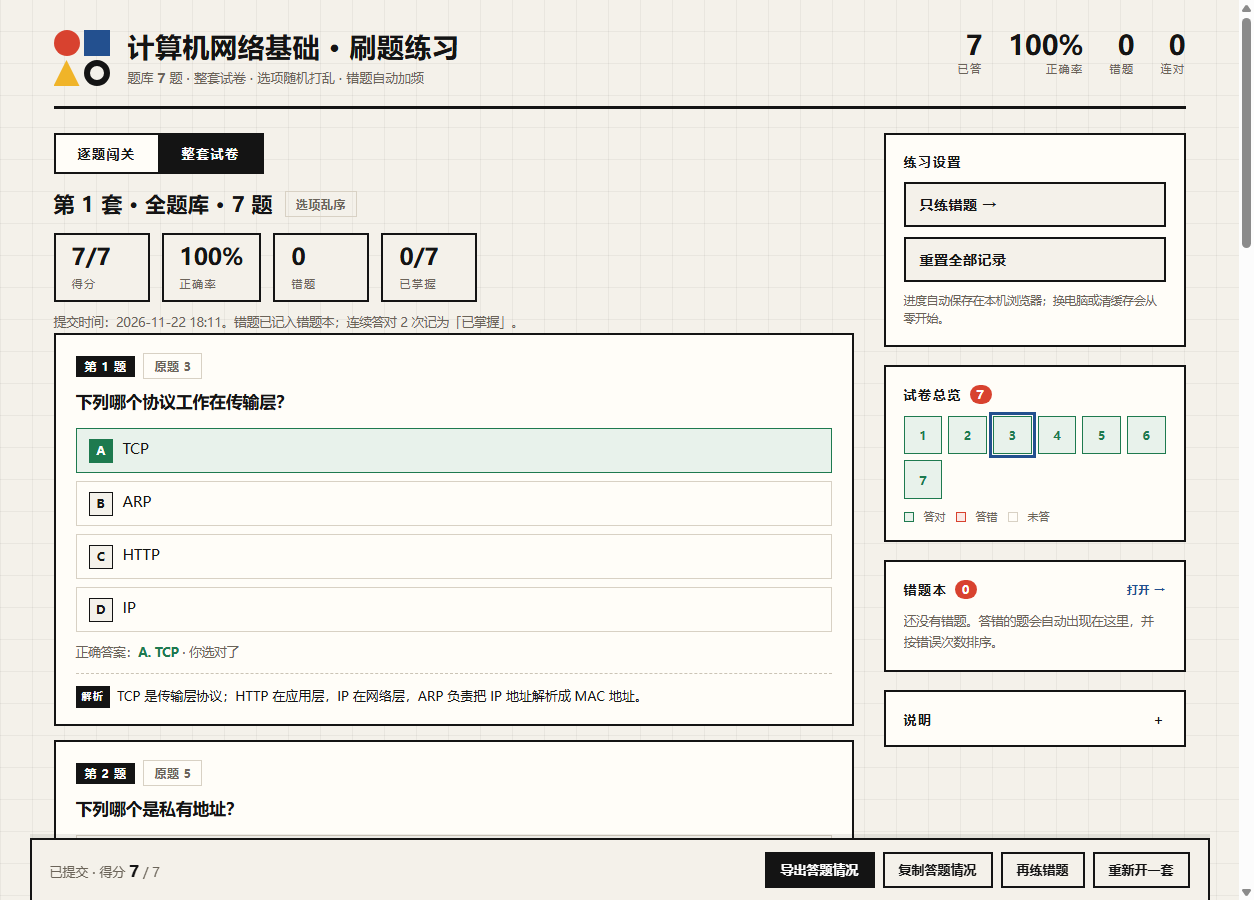
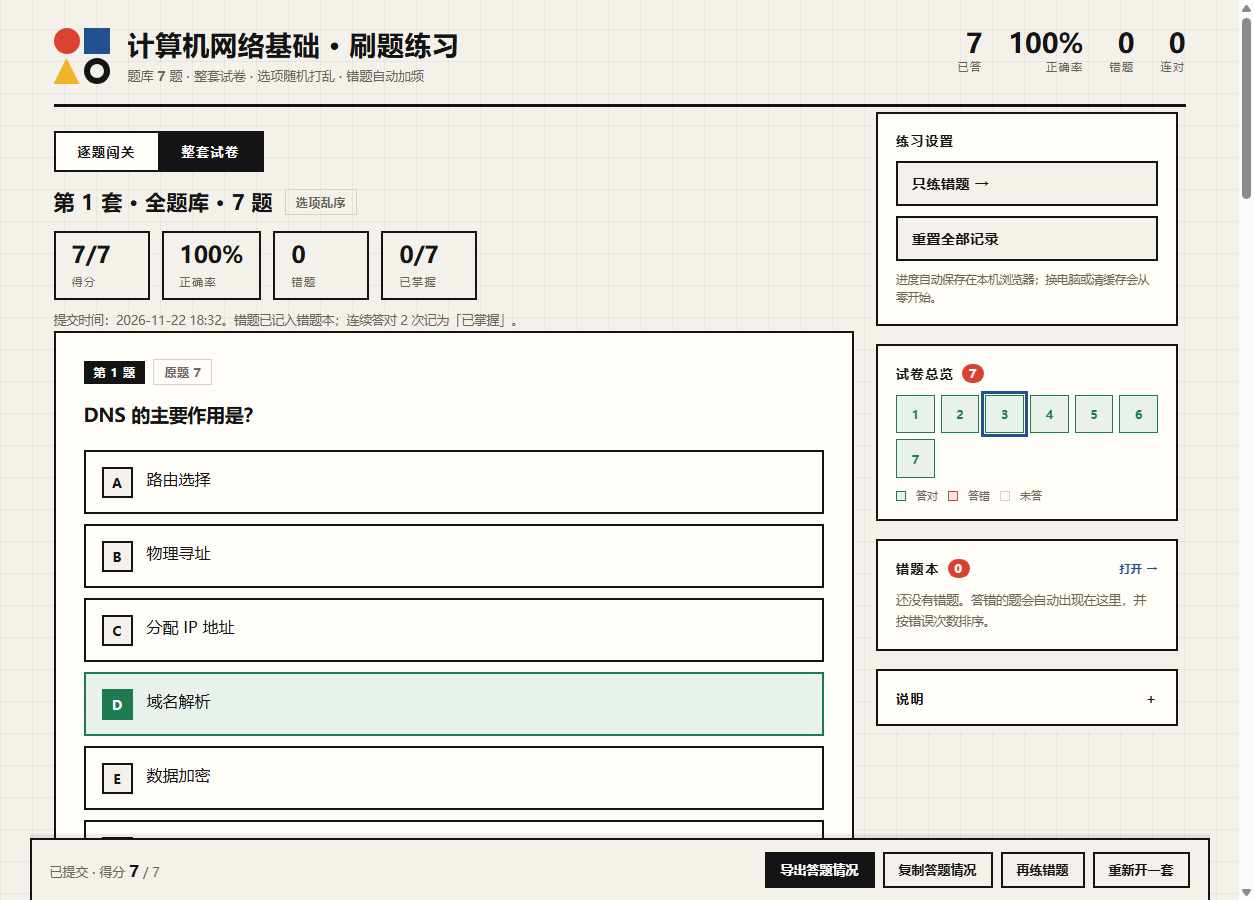
feat: 试卷选项与闯关同款样式、固定页签（v1.2.0）

Changed region(s): [[0.0311, 0.0311, 1.0, 0.9333], [0.933, 0.0311, 0.9641, 0.0622]]

diff --git a/assets/template.html b/assets/template.html
@@ -125,6 +125,23 @@
 
   /* ---------- side ---------- */
   .side{display:flex;flex-direction:column;gap:18px}
+  /* 桌面端：右侧四个页签浮在视口里，页面滚动时不跟着走 */
+  @media (min-width: 941px){
+    .side{
+      position:fixed;
+      top:112px;
+      right:max(24px, calc((100vw - 1180px) / 2 + 24px));
+      width:302px;
+      max-height:calc(100vh - 184px);
+      overflow-y:auto;
+      overscroll-behavior:contain;
+      z-index:15;
+      background:var(--paper);
+      padding-bottom:6px;
+      scrollbar-width:thin;
+      scrollbar-color:var(--line) transparent;
+    }
+  }
   .panel{background:var(--card);border:2px solid var(--ink);padding:18px 18px 16px}
   .panel h3{margin:0 0 12px;font-size:13px;letter-spacing:1.6px;font-weight:800;display:flex;align-items:center;gap:8px}
   .panel summary{cursor:pointer;list-style:none;display:flex;align-items:center;justify-content:space-between}
@@ -162,7 +179,7 @@
   .tab:focus-visible{outline:3px solid var(--blue);outline-offset:2px}
 
   /* ---------- paper mode ---------- */
-  .paperhead{background:var(--card);border:2px solid var(--ink);box-shadow:var(--shadow);padding:22px 26px;margin-bottom:18px}
+  .paperhead{background:var(--card);border:2px solid var(--ink);box-shadow:var(--shadow);padding:24px 28px;margin-bottom:22px}
   .phtop{display:flex;align-items:center;gap:12px;flex-wrap:wrap}
   .phtop h2{margin:0;font-size:21px;letter-spacing:.3px;font-weight:800}
   .phsub{margin:10px 0 0;font-size:12.5px;line-height:1.75;color:var(--muted)}
@@ -183,15 +200,15 @@
   .pnavlegend .sw.bad{background:var(--red-bg);border-color:var(--red)}
   .pnavlegend .sw.done{background:var(--ink);border-color:var(--ink)}
   .pq.flash{outline:3px solid var(--blue);outline-offset:2px}
-  .pq{background:var(--card);border:2px solid var(--ink);padding:18px 20px 16px;margin-bottom:14px}
-  .pqhead{display:flex;align-items:center;gap:8px;flex-wrap:wrap;margin-bottom:10px}
-  .pqno{background:var(--ink);color:#fff;font-size:11.5px;font-weight:800;letter-spacing:1px;padding:3px 9px}
-  .pqtext{margin:0 0 12px;font-size:16.5px;line-height:1.62;font-weight:700;letter-spacing:.2px}
-  .pqopts{display:grid;gap:8px}
-  .pqopt{display:flex;align-items:flex-start;gap:10px;width:100%;text-align:left;font:inherit;font-size:14.5px;line-height:1.55;color:var(--ink);background:var(--card);border:1.5px solid var(--line);padding:9px 12px;cursor:pointer;transition:border-color .12s ease,background .12s ease}
-  .pqopt .pl{width:24px;height:24px;flex:0 0 24px;display:grid;place-items:center;border:1.5px solid var(--ink);background:var(--paper);font-size:11.5px;font-weight:800;margin-top:1px}
-  .pqopt:hover:not(:disabled){border-color:var(--ink);background:#fff}
-  .pqopt:focus-visible{outline:3px solid var(--blue);outline-offset:2px}
+  .pq{background:var(--card);border:2px solid var(--ink);padding:26px 28px 22px;margin-bottom:20px}
+  .pqhead{display:flex;align-items:center;gap:8px;flex-wrap:wrap;margin-bottom:14px}
+  .pqno{background:var(--ink);color:#fff;font-size:11.5px;font-weight:800;letter-spacing:1px;padding:4px 10px}
+  .pqtext{margin:0 0 18px;font-size:18.5px;line-height:1.75;font-weight:700;letter-spacing:.2px}
+  .pqopts{display:grid;gap:10px}
+  .pqopt{display:flex;align-items:flex-start;gap:14px;width:100%;text-align:left;font:inherit;font-size:16px;line-height:1.6;color:var(--ink);background:var(--card);border:2px solid var(--ink);padding:14px 16px;cursor:pointer;transition:transform .12s ease,box-shadow .12s ease,background .12s ease,border-color .12s ease}
+  .pqopt .pl{width:31px;height:31px;flex:0 0 31px;display:grid;place-items:center;border:2px solid var(--ink);background:var(--paper);font-size:13px;font-weight:800;line-height:1;margin-top:1px}
+  .pqopt:hover:not(:disabled){border-color:var(--ink);background:#fff;transform:translate(-2px,-2px);box-shadow:4px 4px 0 var(--ink)}
+  .pqopt:focus-visible{outline:3px solid var(--blue);outline-offset:3px}
   .pqopt.sel{border-color:var(--blue);background:#e9f0f9}
   .pqopt.sel .pl{background:var(--blue);border-color:var(--blue);color:#fff}
   .pqopt.correct{border-color:var(--green);background:var(--green-bg)}
@@ -199,7 +216,7 @@
   .pqopt.wrong{border-color:var(--red);background:var(--red-bg)}
   .pqopt.wrong .pl{background:var(--red);border-color:var(--red);color:#fff}
   .pqopt:disabled{cursor:default}
-  .pqans{margin-top:10px;font-size:12.5px;color:var(--muted);line-height:1.7}
+  .pqans{margin-top:14px;font-size:13.5px;color:var(--muted);line-height:1.8}
   .pqans b{color:var(--green);font-weight:800}
   #paperView{padding-bottom:126px}
   .paperbar{position:fixed;left:50%;bottom:0;transform:translateX(-50%);width:100%;max-width:1180px;z-index:30;display:flex;align-items:center;justify-content:space-between;gap:12px;flex-wrap:wrap;background:var(--paper);border:2px solid var(--ink);border-bottom:0;box-shadow:0 -4px 0 rgba(20,20,20,.08);padding:12px 18px}
@@ -212,8 +229,11 @@
 
   @media (max-width: 940px){
     .paperhead{padding:18px 18px;box-shadow:5px 5px 0 #141414}
-    .pq{padding:14px 14px 12px}
-    .pqtext{font-size:15px}
+    .pq{padding:18px 16px 16px;margin-bottom:14px}
+    .pqtext{font-size:17px;line-height:1.7;margin-bottom:14px}
+    .pqopt{font-size:15px;padding:12px 13px;gap:11px}
+    .pqopt .pl{width:28px;height:28px;flex-basis:28px;font-size:12px}
+    .pqopts{gap:9px}
     .phtop h2{font-size:18px}
     .scorebox{display:grid;grid-template-columns:1fr 1fr;gap:10px}
     .scorebox div{min-width:0}
@@ -226,7 +246,7 @@
   /* ---------- explanation ---------- */
   .exp{margin-top:14px;padding-top:11px;border-top:1px dashed #cbc4b6;font-size:13.5px;line-height:1.8;color:var(--ink)}
   .exp .explbl{display:inline-block;background:var(--ink);color:#fff;font-size:10.5px;font-weight:800;letter-spacing:1.4px;padding:2px 7px;margin-right:8px;vertical-align:1px}
-  .pqexp{margin-top:10px;padding-top:10px;border-top:1px dashed #cbc4b6;font-size:13px;line-height:1.78;color:var(--ink)}
+  .pqexp{margin-top:14px;padding-top:12px;border-top:1px dashed #cbc4b6;font-size:14px;line-height:1.85;color:var(--ink)}
   .pqexp .explbl{display:inline-block;background:var(--ink);color:#fff;font-size:10px;font-weight:800;letter-spacing:1.2px;padding:2px 6px;margin-right:7px;vertical-align:1px}
 
   /* ---------- wrong book modal ---------- */

diff --git a/examples/demo.html b/examples/demo.html
@@ -125,6 +125,23 @@
 
   /* ---------- side ---------- */
   .side{display:flex;flex-direction:column;gap:18px}
+  /* 桌面端：右侧四个页签浮在视口里，页面滚动时不跟着走 */
+  @media (min-width: 941px){
+    .side{
+      position:fixed;
+      top:112px;
+      right:max(24px, calc((100vw - 1180px) / 2 + 24px));
+      width:302px;
+      max-height:calc(100vh - 184px);
+      overflow-y:auto;
+      overscroll-behavior:contain;
+      z-index:15;
+      background:var(--paper);
+      padding-bottom:6px;
+      scrollbar-width:thin;
+      scrollbar-color:var(--line) transparent;
+    }
+  }
   .panel{background:var(--card);border:2px solid var(--ink);padding:18px 18px 16px}
   .panel h3{margin:0 0 12px;font-size:13px;letter-spacing:1.6px;font-weight:800;display:flex;align-items:center;gap:8px}
   .panel summary{cursor:pointer;list-style:none;display:flex;align-items:center;justify-content:space-between}
@@ -162,7 +179,7 @@
   .tab:focus-visible{outline:3px solid var(--blue);outline-offset:2px}
 
   /* ---------- paper mode ---------- */
-  .paperhead{background:var(--card);border:2px solid var(--ink);box-shadow:var(--shadow);padding:22px 26px;margin-bottom:18px}
+  .paperhead{background:var(--card);border:2px solid var(--ink);box-shadow:var(--shadow);padding:24px 28px;margin-bottom:22px}
   .phtop{display:flex;align-items:center;gap:12px;flex-wrap:wrap}
   .phtop h2{margin:0;font-size:21px;letter-spacing:.3px;font-weight:800}
   .phsub{margin:10px 0 0;font-size:12.5px;line-height:1.75;color:var(--muted)}
@@ -183,15 +200,15 @@
   .pnavlegend .sw.bad{background:var(--red-bg);border-color:var(--red)}
   .pnavlegend .sw.done{background:var(--ink);border-color:var(--ink)}
   .pq.flash{outline:3px solid var(--blue);outline-offset:2px}
-  .pq{background:var(--card);border:2px solid var(--ink);padding:18px 20px 16px;margin-bottom:14px}
-  .pqhead{display:flex;align-items:center;gap:8px;flex-wrap:wrap;margin-bottom:10px}
-  .pqno{background:var(--ink);color:#fff;font-size:11.5px;font-weight:800;letter-spacing:1px;padding:3px 9px}
-  .pqtext{margin:0 0 12px;font-size:16.5px;line-height:1.62;font-weight:700;letter-spacing:.2px}
-  .pqopts{display:grid;gap:8px}
-  .pqopt{display:flex;align-items:flex-start;gap:10px;width:100%;text-align:left;font:inherit;font-size:14.5px;line-height:1.55;color:var(--ink);background:var(--card);border:1.5px solid var(--line);padding:9px 12px;cursor:pointer;transition:border-color .12s ease,background .12s ease}
-  .pqopt .pl{width:24px;height:24px;flex:0 0 24px;display:grid;place-items:center;border:1.5px solid var(--ink);background:var(--paper);font-size:11.5px;font-weight:800;margin-top:1px}
-  .pqopt:hover:not(:disabled){border-color:var(--ink);background:#fff}
-  .pqopt:focus-visible{outline:3px solid var(--blue);outline-offset:2px}
+  .pq{background:var(--card);border:2px solid var(--ink);padding:26px 28px 22px;margin-bottom:20px}
+  .pqhead{display:flex;align-items:center;gap:8px;flex-wrap:wrap;margin-bottom:14px}
+  .pqno{background:var(--ink);color:#fff;font-size:11.5px;font-weight:800;letter-spacing:1px;padding:4px 10px}
+  .pqtext{margin:0 0 18px;font-size:18.5px;line-height:1.75;font-weight:700;letter-spacing:.2px}
+  .pqopts{display:grid;gap:10px}
+  .pqopt{display:flex;align-items:flex-start;gap:14px;width:100%;text-align:left;font:inherit;font-size:16px;line-height:1.6;color:var(--ink);background:var(--card);border:2px solid var(--ink);padding:14px 16px;cursor:pointer;transition:transform .12s ease,box-shadow .12s ease,background .12s ease,border-color .12s ease}
+  .pqopt .pl{width:31px;height:31px;flex:0 0 31px;display:grid;place-items:center;border:2px solid var(--ink);background:var(--paper);font-size:13px;font-weight:800;line-height:1;margin-top:1px}
+  .pqopt:hover:not(:disabled){border-color:var(--ink);background:#fff;transform:translate(-2px,-2px);box-shadow:4px 4px 0 var(--ink)}
+  .pqopt:focus-visible{outline:3px solid var(--blue);outline-offset:3px}
   .pqopt.sel{border-color:var(--blue);background:#e9f0f9}
   .pqopt.sel .pl{background:var(--blue);border-color:var(--blue);color:#fff}
   .pqopt.correct{border-color:var(--green);background:var(--green-bg)}
@@ -199,7 +216,7 @@
   .pqopt.wrong{border-color:var(--red);background:var(--red-bg)}
   .pqopt.wrong .pl{background:var(--red);border-color:var(--red);color:#fff}
   .pqopt:disabled{cursor:default}
-  .pqans{margin-top:10px;font-size:12.5px;color:var(--muted);line-height:1.7}
+  .pqans{margin-top:14px;font-size:13.5px;color:var(--muted);line-height:1.8}
   .pqans b{color:var(--green);font-weight:800}
   #paperView{padding-bottom:126px}
   .paperbar{position:fixed;left:50%;bottom:0;transform:translateX(-50%);width:100%;max-width:1180px;z-index:30;display:flex;align-items:center;justify-content:space-between;gap:12px;flex-wrap:wrap;background:var(--paper);border:2px solid var(--ink);border-bottom:0;box-shadow:0 -4px 0 rgba(20,20,20,.08);padding:12px 18px}
@@ -212,8 +229,11 @@
 
   @media (max-width: 940px){
     .paperhead{padding:18px 18px;box-shadow:5px 5px 0 #141414}
-    .pq{padding:14px 14px 12px}
-    .pqtext{font-size:15px}
+    .pq{padding:18px 16px 16px;margin-bottom:14px}
+    .pqtext{font-size:17px;line-height:1.7;margin-bottom:14px}
+    .pqopt{font-size:15px;padding:12px 13px;gap:11px}
+    .pqopt .pl{width:28px;height:28px;flex-basis:28px;font-size:12px}
+    .pqopts{gap:9px}
     .phtop h2{font-size:18px}
     .scorebox{display:grid;grid-template-columns:1fr 1fr;gap:10px}
     .scorebox div{min-width:0}
@@ -226,7 +246,7 @@
   /* ---------- explanation ---------- */
   .exp{margin-top:14px;padding-top:11px;border-top:1px dashed #cbc4b6;font-size:13.5px;line-height:1.8;color:var(--ink)}
   .exp .explbl{display:inline-block;background:var(--ink);color:#fff;font-size:10.5px;font-weight:800;letter-spacing:1.4px;padding:2px 7px;margin-right:8px;vertical-align:1px}
-  .pqexp{margin-top:10px;padding-top:10px;border-top:1px dashed #cbc4b6;font-size:13px;line-height:1.78;color:var(--ink)}
+  .pqexp{margin-top:14px;padding-top:12px;border-top:1px dashed #cbc4b6;font-size:14px;line-height:1.85;color:var(--ink)}
   .pqexp .explbl{display:inline-block;background:var(--ink);color:#fff;font-size:10px;font-weight:800;letter-spacing:1.2px;padding:2px 6px;margin-right:7px;vertical-align:1px}
 
   /* ---------- wrong book modal ---------- */
